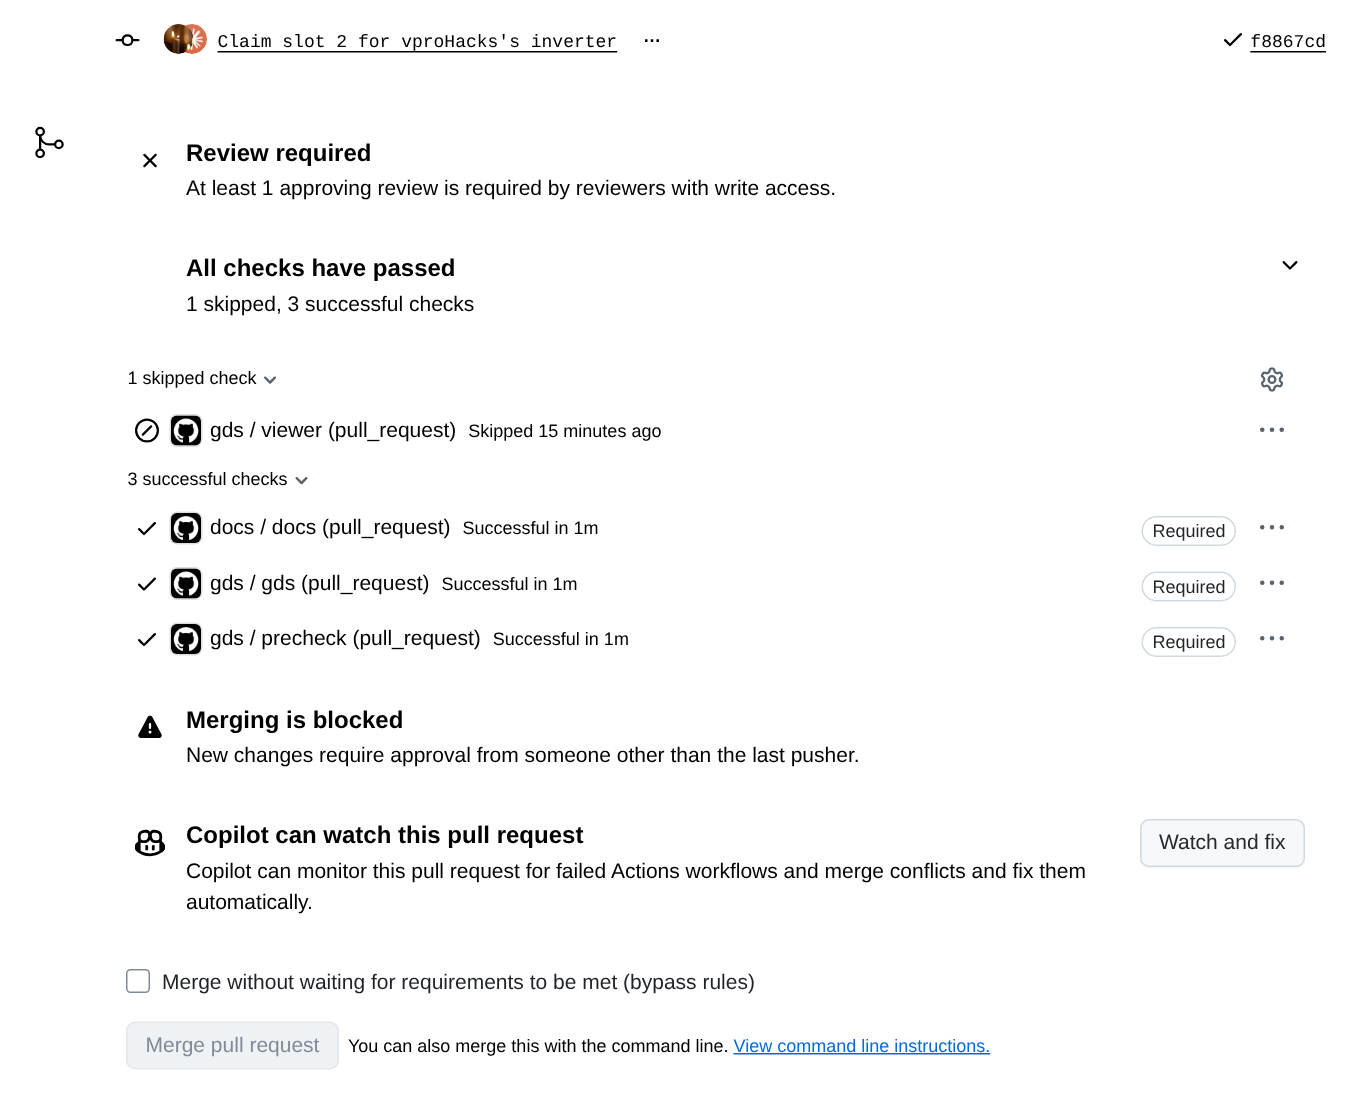
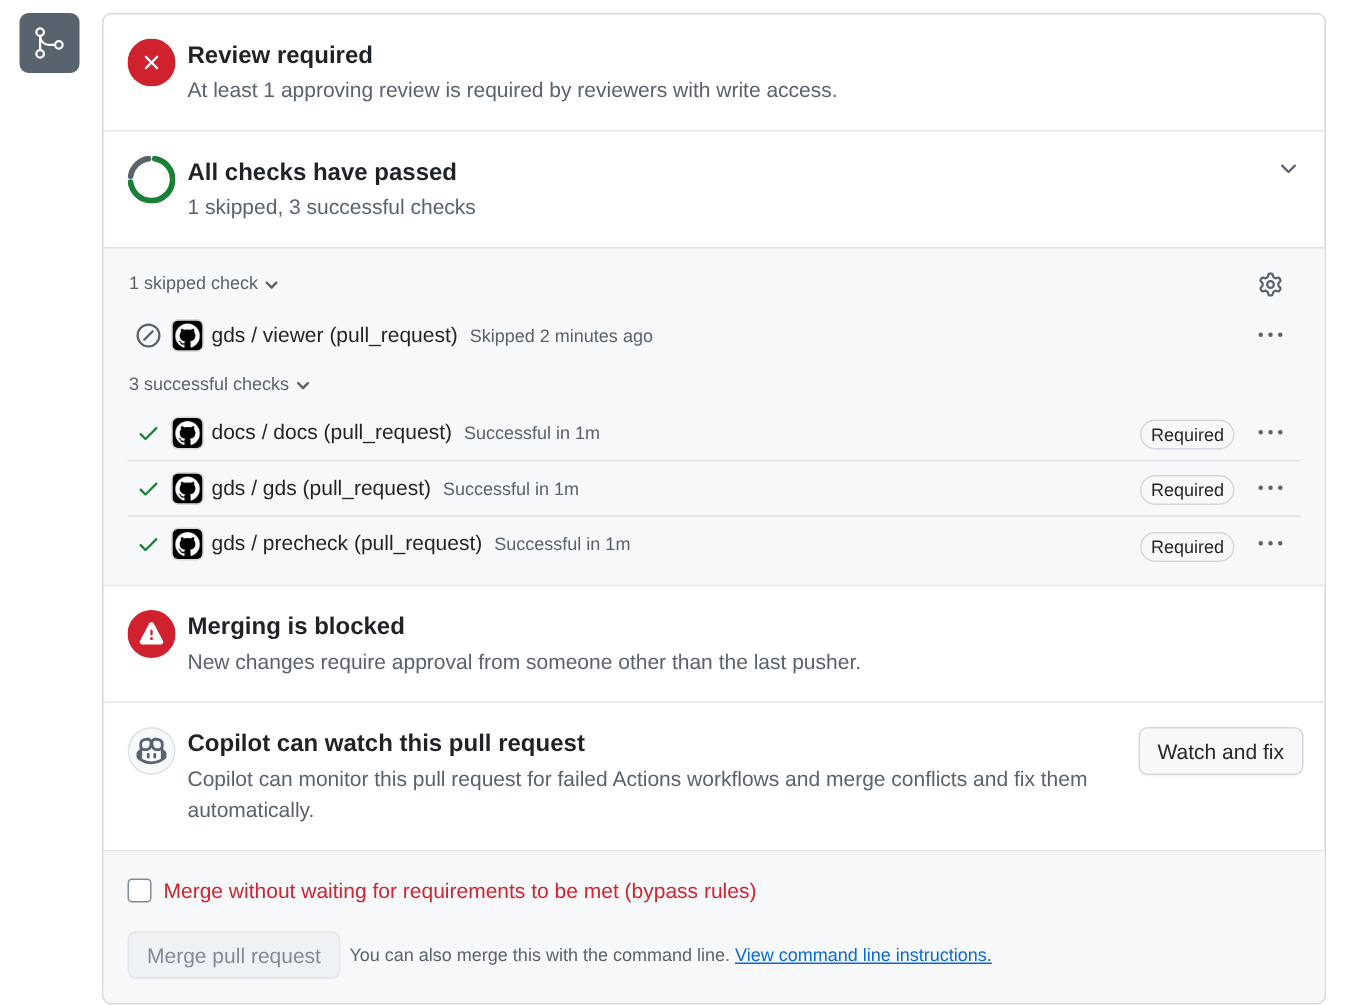
Lab 04: merge-box screenshots retaken with GitHub's light theme fully loaded
The first captures of the review-required and bypass merge boxes were taken
before the light theme's stylesheet was loaded (the test account uses the
dark theme), so the merge box had no borders. Retaken from the AI-written
pull request, #3, reopened for the purpose and closed again; its merge box
shows the same checks, review requirement and bypass as #1 and #2 did.

diff --git a/docs/labs/lab-04-a-change-through-review-overview.md b/docs/labs/lab-04-a-change-through-review-overview.md
@@ -221,7 +221,7 @@ What happens to an open pull request when `main` changes under it?
    `gds / precheck (pull_request)`, each marked Required, and `gds / viewer (pull_request)` as
    skipped, and it says "Review required" and "Merging is blocked".
 
-   <!-- Screenshot: vproHacks/ic102-review-sandbox-a#1 on Nov 16, 2026, seen by its owner, who also opened it: the one-account live test used a branch of the same repository in place of a partner's fork, so the merge box also offers the owner's bypass. -->
+   <!-- Screenshot: vproHacks/ic102-review-sandbox-a#3 on Nov 16, 2026 (also used for the bypass shot below), seen by its owner, who also opened it: the one-account live test used a branch of the same repository in place of a partner's fork, so the merge box also offers the owner's bypass. #1 showed the same merge box earlier. -->
    ![A pull request waiting for its approval, with its three required checks passed and viewer skipped.](../assets/img/ic102-a-merge-blocked.png){width=760}
 
    <!-- RUN-TODO (two accounts): a pull_request run from a partner's fork into a student's ttsky-ic102-a-review. Confirm whether each later push to the pull request needs its runs approved again, and the approve button's exact label (GitHub's documentation, read Nov 16, 2026, says "Approve workflows to run"). Also Part 5, step 5: that a push after an approval dismisses it. The one-account live test of Nov 16, 2026 confirmed the rest with a same-repository pull request (vproHacks/ic102-review-sandbox-a#1, runs 43828896448 and 43828896478): viewer is skipped, and the merge box names the required checks as above. -->
